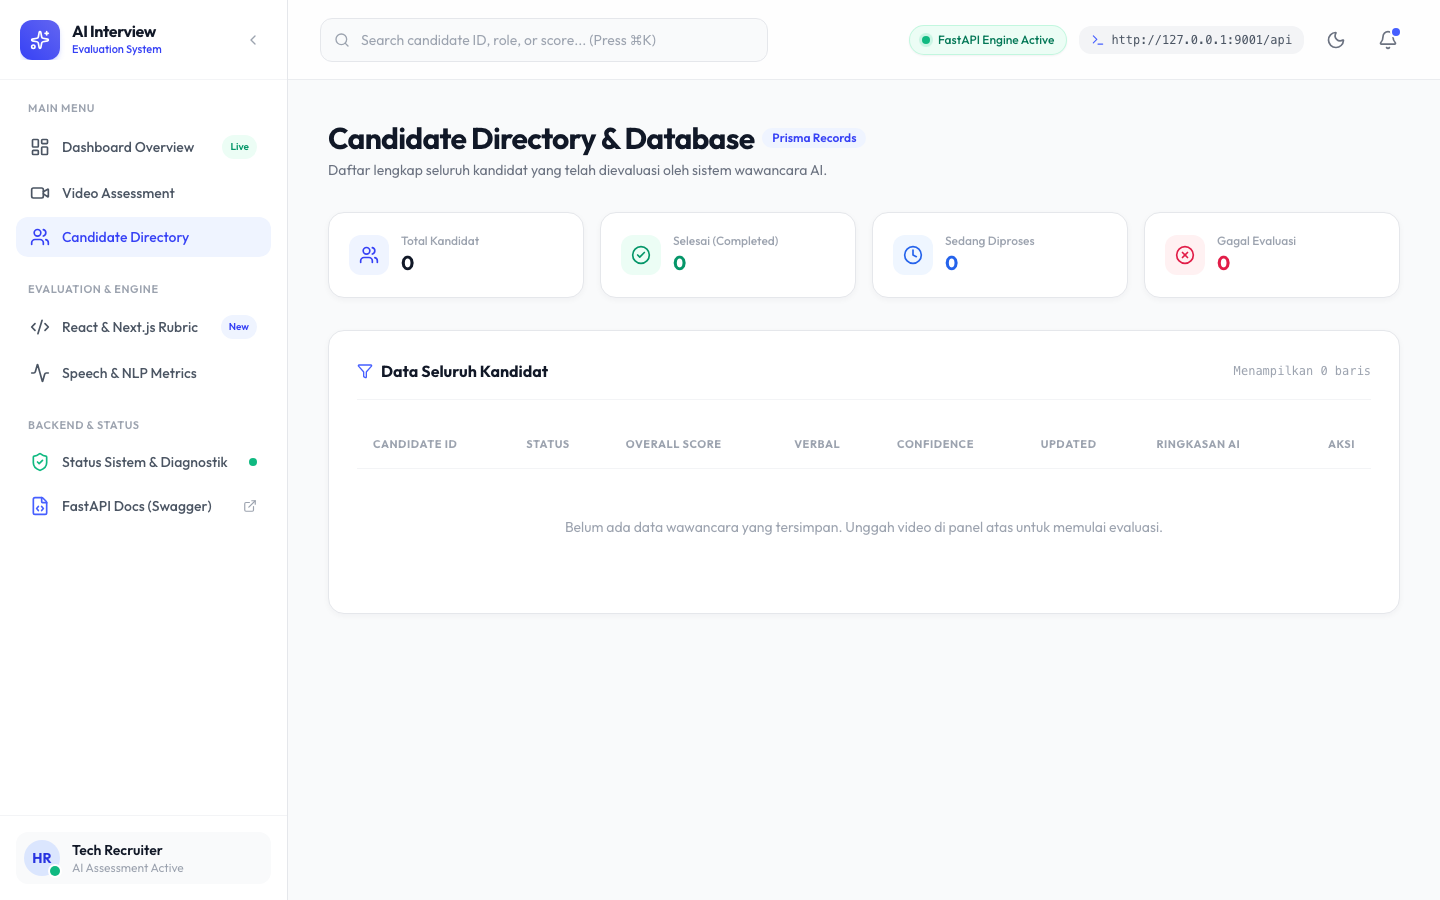
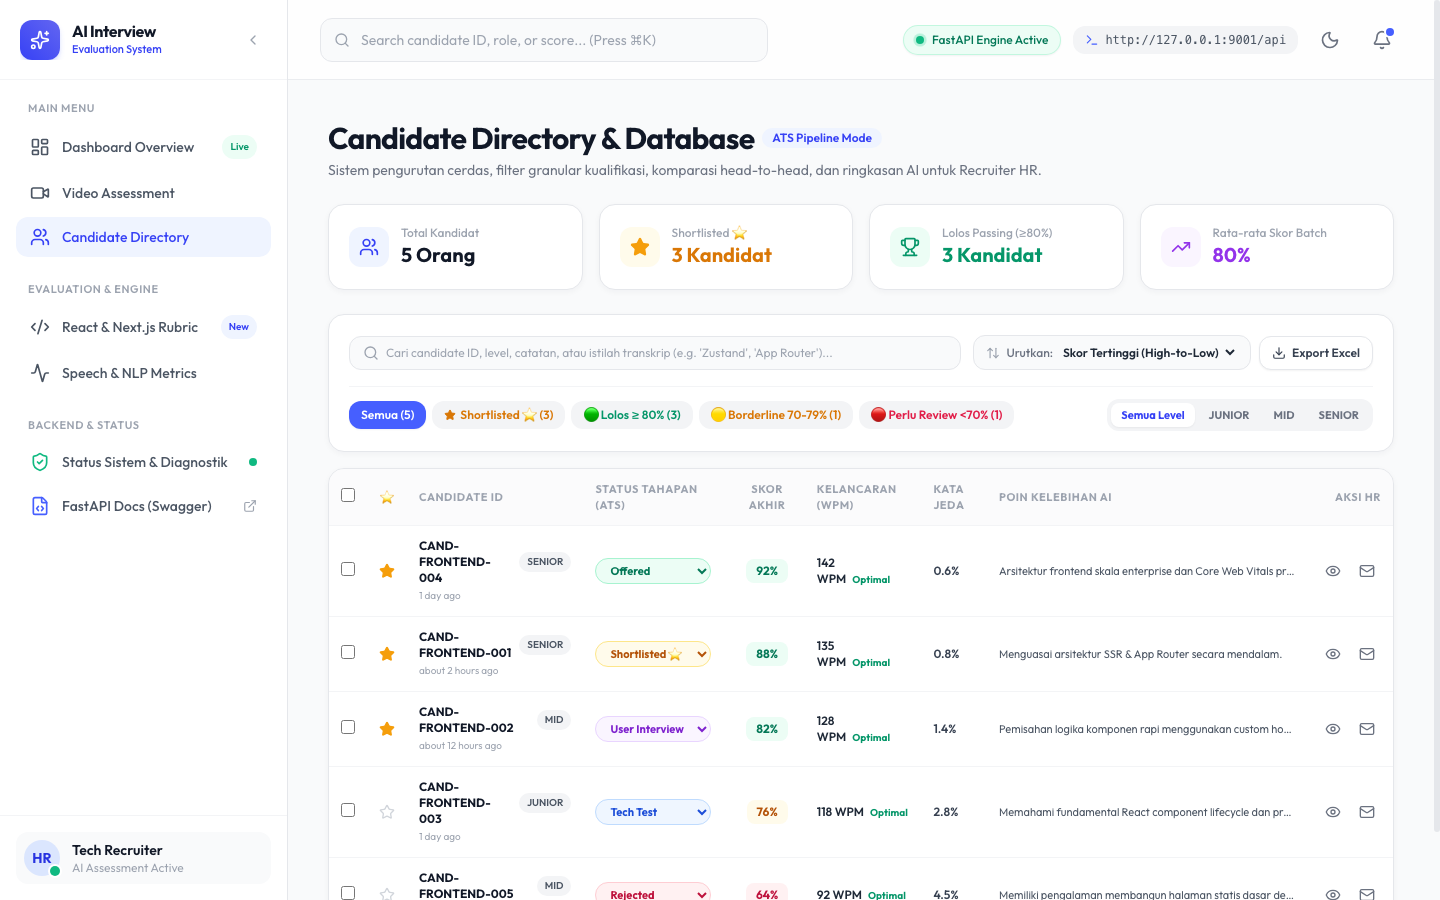
fix(ui): polish passing grade filter pill and update candidate directory screenshot

diff --git a/ai_interview_project/frontend/src/app/components/candidate-table.tsx b/ai_interview_project/frontend/src/app/components/candidate-table.tsx
@@ -470,7 +470,7 @@ export function CandidateTable({ interviews: initialInterviews, apiBaseUrl }: Ca
                   : "bg-gray-100 dark:bg-gray-800 text-emerald-600 dark:text-emerald-400 hover:bg-emerald-50"
               }`}
             >
-              🟢 Lolos $\ge 80\%$ ({counts.pass})
+              🟢 Lolos ≥ 80% ({counts.pass})
             </button>
 
             <button
